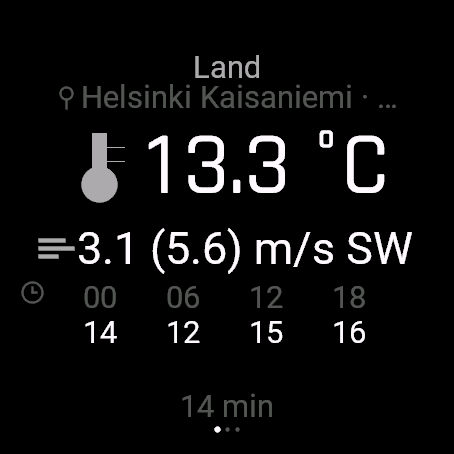
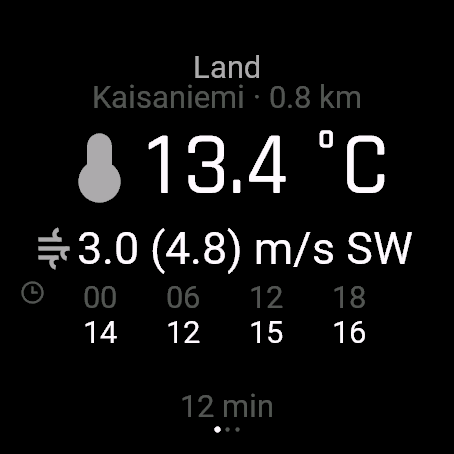
Download glyph on the updated row; fix the wave shape and buoy age
Per Nico: a download icon in front of the "last updated" line at the foot of
each page. Added as an arrow dropping onto a baseline, with the row laid out as
an icon/text pair so it stays centred as a unit.

Two things the latest screenshots showed that were not raised:

The wave icon had become stacked chevrons. The curve was being drawn into a
square box, which gives water no horizontal room — it is a wide, shallow shape.
Now drawn 1.35x wider than tall with more segments and less amplitude, so the
curve reads as curved rather than as folded straight lines.

The waves page header truncated to "Helsinki Suomenlinna · …", losing the
distance, exactly as the Land page had. The municipality prefix is now dropped
there too, giving "Suomenlinna · 2.0 km".

Also: the waves footer was showing the STATION's reading age on the buoy page.
Buoys report roughly every 30 minutes against the station's every one to ten,
so the two are genuinely different numbers. The backend now returns
observed_epoch alongside observed_at — the watch ages readings by subtraction
and has no ISO parser — and the page uses the buoy's own timestamp.

diff --git a/app/main.py b/app/main.py
@@ -279,7 +279,16 @@ async def _buoy_reading(lat: float, lon: float, prefer_fmisid: int | None) -> di
             # reports every 5, so these genuinely differ (RESEARCH.md §4).
             at[target] = entry["time"]
     out["at"] = at
-    out["observed_at"] = max(at.values()) if at else None
+    newest = max(at.values()) if at else None
+    out["observed_at"] = newest
+    # Epoch too: the watch ages readings by subtraction and has no ISO parser.
+    if newest:
+        try:
+            out["observed_epoch"] = int(
+                datetime.fromisoformat(newest.replace("Z", "+00:00")).timestamp()
+            )
+        except ValueError:
+            out["observed_epoch"] = None
     return out
 
 
